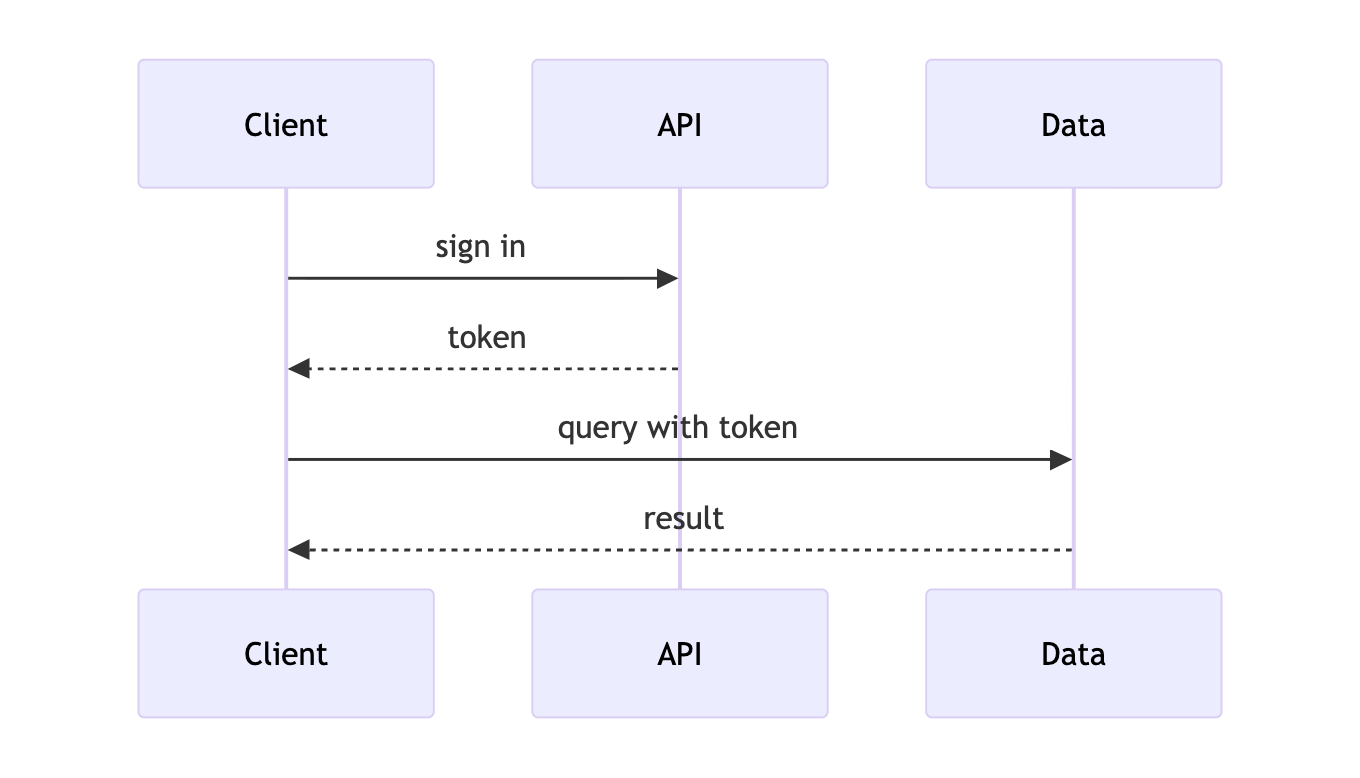
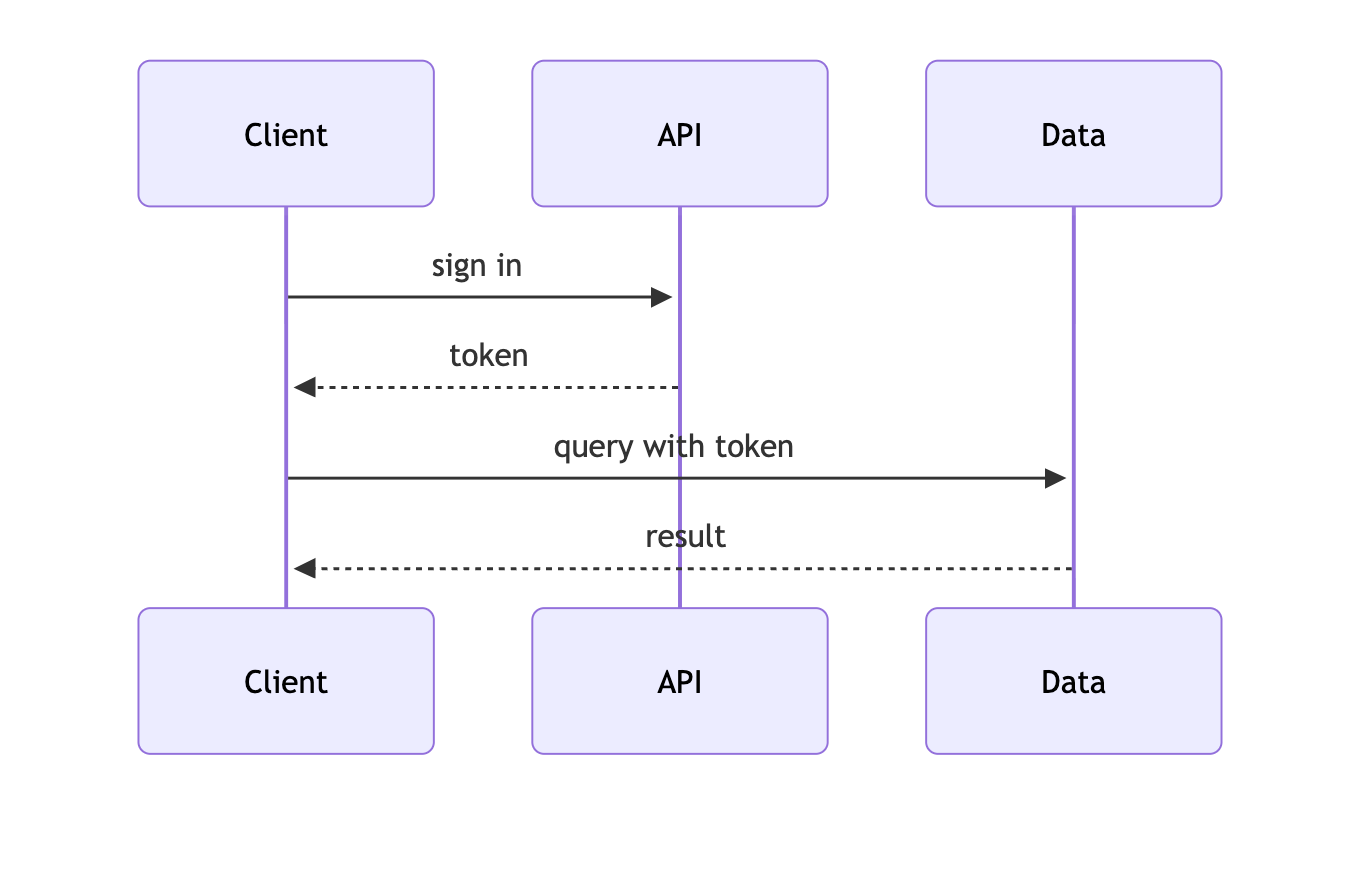
README: images match the home page hero and four-way comparison
Claude-Session: https://claude.ai/code/session_01K2e5DGnu44ncWx7e3EUsEG

diff --git a/examples/compare.html b/examples/compare.html
@@ -7,41 +7,70 @@
   .box { width: 680px; margin: 0 0 1.5rem; padding: 20px; box-sizing: border-box; background: #fff; display: flex; justify-content: center; }
   .pa-scene { margin: 0 0 1.5rem; width: 680px; box-sizing: border-box; }
   pre { margin: 0; font-family: inherit; }
+  .mk { position: fixed; top: 0; left: 0; display: flex; } .mk i { width: 6px; height: 6px; background: #000; }
+  .cmp { display: flex; gap: 16px; margin: 0 0 1.5rem; width: 1200px; }
+  .pn { width: 276px; height: 600px; box-sizing: border-box; padding: 8px; border-radius: 16px; background: #efeafa; display: flex; justify-content: center; align-items: center; overflow: hidden; }
+  .pn.pa-scene { margin: 0; padding: 8px; }
+  .pn { --pele-bg: #efeafa; }
+  .pn svg { max-width: 100%; height: auto; }
 </style>
 <script type="module">
 import { mount } from '../node_modules/pele/dist/pele.js';
 import { icons } from '../glyphs.js';
-import '../tabler/computers.js';
-import { watch } from '../pele-animate.js';
-import mermaid from 'https://cdn.jsdelivr.net/npm/mermaid@11.4.1/dist/mermaid.esm.min.mjs';
+for (const c of ['document', 'system', 'text', 'design', 'media']) await import(`../tabler/${c}.js`);
+import { watch, prepare } from '../pele-animate.js';
+import mermaid from 'https://cdn.jsdelivr.net/npm/mermaid@12.2.0/dist/mermaid.esm.min.mjs';
 
+// Same flow as the home page comparison: written left to right, shown in panels too narrow for it.
 const flow = `flowchart LR
-  A[Client] -->|request| B[API]
-  A -->|sign in| C[Auth server]
-  C -->|token| A`;
+  A[Mermaid code] -->|parse| B[Diagram model] -->|lay out and draw| C[SVG on the page]`;
+const flowAuto = `flowchart LR
+  %% pa: autoplay
+  A[Mermaid code] -->|parse| B[Diagram model] -->|lay out and draw| C[SVG on the page]`;
+const flowIcons = `flowchart LR
+  %% pa: autoplay
+  A@{ icon: "file-code", form: "square", h: 88, label: "Mermaid code" }
+  B@{ icon: "settings", form: "square", h: 88, label: "Diagram model" }
+  C@{ icon: "photo", form: "square", h: 88, label: "SVG on the page" }
+  A -->|parse| B
+  B -->|lay out and draw| C`;
 const seq = `sequenceDiagram
   Client->>API: sign in
   API-->>Client: token
   Client->>Data: query with token
   Data-->>Client: result`;
-const glyphs = `flowchart LR
-  %% pa: 1=C 2=L 3=S
-  C@{ icon: "http-get", form: "square", h: 88, label: "Request" }
-  L@{ icon: "load-balancer", form: "square", h: 88, label: "Load balancer" }
-  S@{ icon: "cloud-computing", form: "square", h: 88, label: "Cloud service" }
-  C <-->|route| L
-  L <-->|forward| S`;
+// The home page hero: what pele-animate does, in autoplay step mode.
+const hero = `flowchart LR
+  %% pa: autoplay 1=W 2=W>O 3=O>I 4=I>R
+  W@{ icon: "file-code", form: "square", h: 88, label: "Mermaid code" }
+  O@{ icon: "list-numbers", form: "square", h: 88, label: "Ordered steps" }
+  I@{ icon: "palette", form: "square", h: 88, label: "Illustrated scene" }
+  R@{ icon: "player-play", form: "square", h: 88, label: "Reader follows along" }
+  W -->|pin the order| O
+  O -->|add icons| I
+  I -->|click through| R`;
 
 mermaid.initialize({ startOnLoad: false, theme: 'default' });
-for (const [id, src] of [['m1', flow], ['m2', seq]]) {
+for (const [id, src] of [['c1', flow], ['m2', seq]]) {
   const { svg } = await mermaid.render(`mm-${id}`, src);
   document.getElementById(id).innerHTML = svg;
 }
-for (const [id, src] of [['p1', flow], ['p2', seq]]) mount(document.getElementById(id), src, { icons });
-for (const [id, src] of [['a1', flow], ['a2', seq], ['a3', glyphs]]) {
+for (const [id, src] of [['c2', flow], ['p2', seq]]) mount(document.getElementById(id), src, { icons });
+for (const [id, src] of [['a2', seq]]) {
   const el = document.getElementById(id);
   mount(el, src, { icons });
   watch(el, src);
+}
+
+// Autoplay panels (watch reads `autoplay` from the source): real time, recorded to video by capture.sh.
+// Each panel flashes its marker square (outside the crop) whenever its loop restarts, so capture.sh can cut one exact loop.
+const flash = (id) => { const m = document.getElementById('mk-' + id); m.style.background = '#f00'; setTimeout(() => (m.style.background = '#000'), 250); };
+for (const [id, src] of [['c3', flowAuto], ['c4', flowIcons], ['a3', hero]]) {
+  const el = document.getElementById(id);
+  mount(el, prepare(src), { icons });
+  watch(el, src);
+  new MutationObserver(() => /^1 \//.test(el.querySelector('.pa-count')?.textContent) && flash(id))
+    .observe(el, { subtree: true, childList: true, characterData: true });
 }
 
 // Deterministic frames: pause every animation in `el` and seek. Phase 'intro' = draw-in, 'tokens' = hover loop.
@@ -60,6 +89,7 @@ window.seek = (id, t, phase) => {
 };
 window.ready = true;
 </script>
-<div class="box" id="m1"></div><div class="box" id="p1"></div><pre class="d" id="a1"></pre>
+<div class="mk"><i id="mk-c3"></i><i id="mk-c4"></i><i id="mk-a3"></i></div>
+<div class="cmp"><div class="pn" id="c1"></div><div class="pn" id="c2"></div><div class="pn" id="c3"></div><div class="pn" id="c4"></div></div>
+<pre class="d" id="a3" style="width:680px"></pre>
 <div class="box" id="m2"></div><div class="box" id="p2"></div><pre class="d" id="a2"></pre>
-<pre class="d" id="a3"></pre>

diff --git a/README.md b/README.md
@@ -11,7 +11,7 @@ Unofficial add-on; not affiliated with or endorsed by the Pele or Obsidian teams
 
 **[Website](https://pele-animate.danielkimdev.com/) · [Docs](docs/getting-started.md) · [npm](https://www.npmjs.com/package/pele-animate) · [Changelog](CHANGELOG.md)**
 
-<img src="https://raw.githubusercontent.com/dkdev24/pele-animate/main/examples/a3.gif" width="560" alt="Animated scene with Tabler icons: a request, a load balancer and a cloud service">
+<img src="https://raw.githubusercontent.com/dkdev24/pele-animate/main/examples/a3.gif" width="560" alt="Animated step mode looping over four steps: Mermaid code, ordered steps, illustrated scene, reader follows along">
 
 - **You set the order.** Nodes appear in the order of a `%% pa:` comment, or by default along the edges; edges draw in and labels fade in.
 - **Readers step through it.** Click (or Enter) starts step mode: previous / play-pause / next buttons, Space, ←/→ and Esc. Hover or focus sends tokens along the edges.
@@ -37,7 +37,10 @@ bun add pele-animate pele
 import { mount } from 'pele';
 import { watch, prepare } from 'pele-animate';
 import { icons } from 'pele-animate/glyphs';
-import 'pele-animate/tabler/computers'; // one Tabler icon category; import as many as you need
+import 'pele-animate/tabler/document'; // one Tabler icon category per import; add as many as you need
+import 'pele-animate/tabler/text';
+import 'pele-animate/tabler/design';
+import 'pele-animate/tabler/media';
 import 'pele-animate/style.css';
 
 for (const el of document.querySelectorAll('pre.mermaid')) {
@@ -51,17 +54,17 @@ Mermaid source:
 
 ```mermaid-icons
 flowchart LR
-  %% pa: 1=C 2=C>L 3=L>S 4=S>L 5=L>C
-  C@{ icon: "http-get", form: "square", h: 88, label: "Request" }
-  L@{ icon: "load-balancer", form: "square", h: 88, label: "Load balancer" }
-  S@{ icon: "cloud-computing", form: "square", h: 88, label: "Cloud service" }
-  C -->|request| L
-  L -->|forward| S
-  S -->|response| L
-  L -->|reply| C
+  %% pa: autoplay 1=W 2=W>O 3=O>I 4=I>R
+  W@{ icon: "file-code", form: "square", h: 88, label: "Mermaid code" }
+  O@{ icon: "list-numbers", form: "square", h: 88, label: "Ordered steps" }
+  I@{ icon: "palette", form: "square", h: 88, label: "Illustrated scene" }
+  R@{ icon: "player-play", form: "square", h: 88, label: "Reader follows along" }
+  W -->|pin the order| O
+  O -->|add icons| I
+  I -->|click through| R
 ```
 
-`%% pa: 1=C 2=C>L 3=L>S 4=S>L 5=L>C` pins the order: the request first, then each leg of the round trip (optional). `form: "square", h: 88` makes a large frameless icon.
+`%% pa: 1=W 2=W>O 3=O>I 4=I>R` pins the order: each node, then the edge to the next (optional). `autoplay` skips the scroll intro and loops step mode once the diagram is on screen. `form: "square", h: 88` makes a large frameless icon.
 
 ## Documentation
 
@@ -79,21 +82,22 @@ result in a browser. See [For coding agents](docs/agents.md).
 
 ## Compare
 
-The same Mermaid source, three renderers. The pele-animate images loop: the intro draws in, then tokens travel the edges (as on hover).
-Regenerate with `examples/capture.sh`.
+The same three-step flow, written left to right, in panels too narrow for it:
 
 ```mermaid
 flowchart LR
-  A[Client] -->|request| B[API]
-  A -->|sign in| C[Auth server]
-  C -->|token| A
+  A[Mermaid code] -->|parse| B[Diagram model] -->|lay out and draw| C[SVG on the page]
 ```
 
-| Renderer | Result |
-|---|---|
-| Mermaid | <img src="https://raw.githubusercontent.com/dkdev24/pele-animate/main/examples/m1.png" width="560" alt="Flowchart rendered by Mermaid"> |
-| Pele | <img src="https://raw.githubusercontent.com/dkdev24/pele-animate/main/examples/p1.png" width="560" alt="Flowchart rendered by Pele"> |
-| pele-animate | <img src="https://raw.githubusercontent.com/dkdev24/pele-animate/main/examples/a1.gif" width="560" alt="Animated flowchart: nodes appear, edges draw in, tokens travel"> |
+| Mermaid.js | Pele | pele-animate with autoplay | pele-animate with autoplay and icons |
+|---|---|---|---|
+| <img src="https://raw.githubusercontent.com/dkdev24/pele-animate/main/examples/c1.png" width="200" alt="Mermaid.js keeps the left-to-right layout and scales it down until the text is tiny"> | <img src="https://raw.githubusercontent.com/dkdev24/pele-animate/main/examples/c2.png" width="200" alt="Pele lays the flow out vertically to fit the panel, at full text size"> | <img src="https://raw.githubusercontent.com/dkdev24/pele-animate/main/examples/c3.gif" width="200" alt="pele-animate in autoplay step mode: the vertical flow appears one step at a time, then loops"> | <img src="https://raw.githubusercontent.com/dkdev24/pele-animate/main/examples/c4.gif" width="200" alt="The same autoplay loop with an icon on every node"> |
+
+Mermaid.js keeps a fixed layout and scales it down to fit, so the text shrinks. Pele lays the diagram out again for the width
+it has. pele-animate adds the steps (the loops above run on their own; a click steps through them) and, optionally, icons.
+
+The same Mermaid source, three renderers, for a sequence diagram. The pele-animate image loops: the intro draws in, then tokens
+travel the edges (as on hover). Regenerate all images with `examples/capture.sh`.
 
 ```mermaid
 sequenceDiagram

diff --git a/WORKLOG.md b/WORKLOG.md
@@ -490,3 +490,18 @@ Checked on class, architecture and state repro cases and the step-order flowchar
 ### Status
 
 `pnpm build` and site check pass.
+
+## README images match the home page (no release)
+
+**Date:** 2026-10-26
+
+### Changes
+
+- Top `a3.gif` is the home page hero (autoplay step mode, 4 steps); the README source block and imports match it.
+- Compare section: one four-case table (`c1.png` Mermaid.js, `c2.png` Pele, `c3.gif` autoplay, `c4.gif` autoplay + icons) of the home page's left-to-right flow in 276px panels, showing Mermaid scaling vs Pele re-laying out. Sequence comparison kept (re-rendered with Mermaid 12.2.0). Removed `a1.gif`, `m1.png`, `p1.png`.
+- `examples/capture.sh`: the autoplay gifs are recorded live (`agent-browser record`), one loop is cut using marker squares the page flashes at each loop restart, and the cut is retimed to the nominal loop length (the recording's clock drifts ~10%). The webm is full range: read it with `scale=in_range=pc` or light panels clip to white.
+- Not checked by eye: `c3.gif`, `a3.gif` and the regenerated sequence images.
+
+### Status
+
+`pnpm test` passes.
